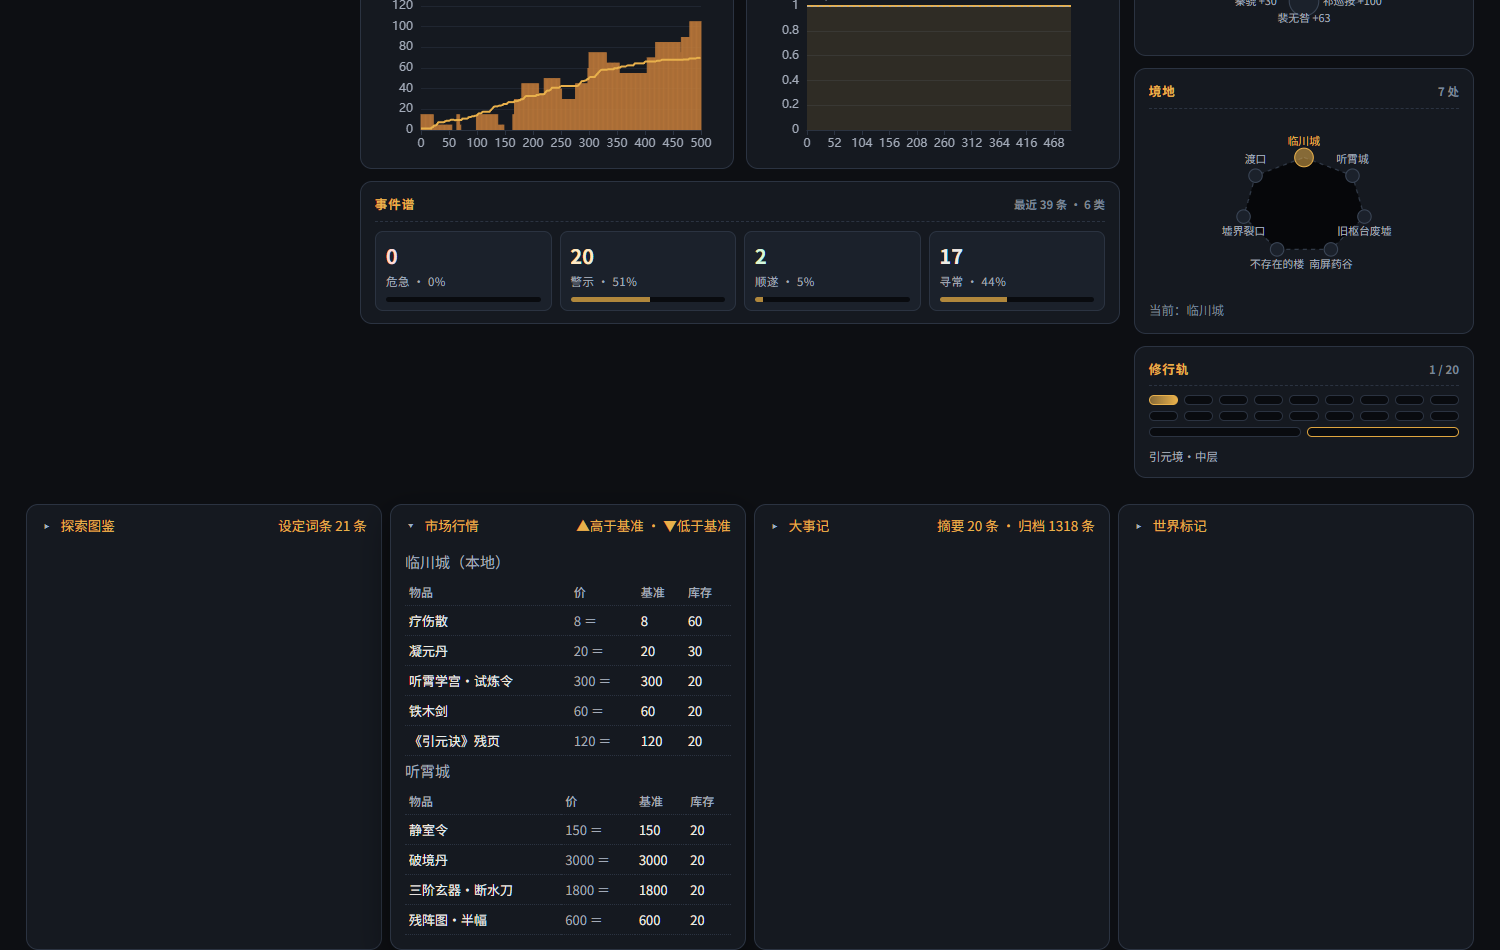
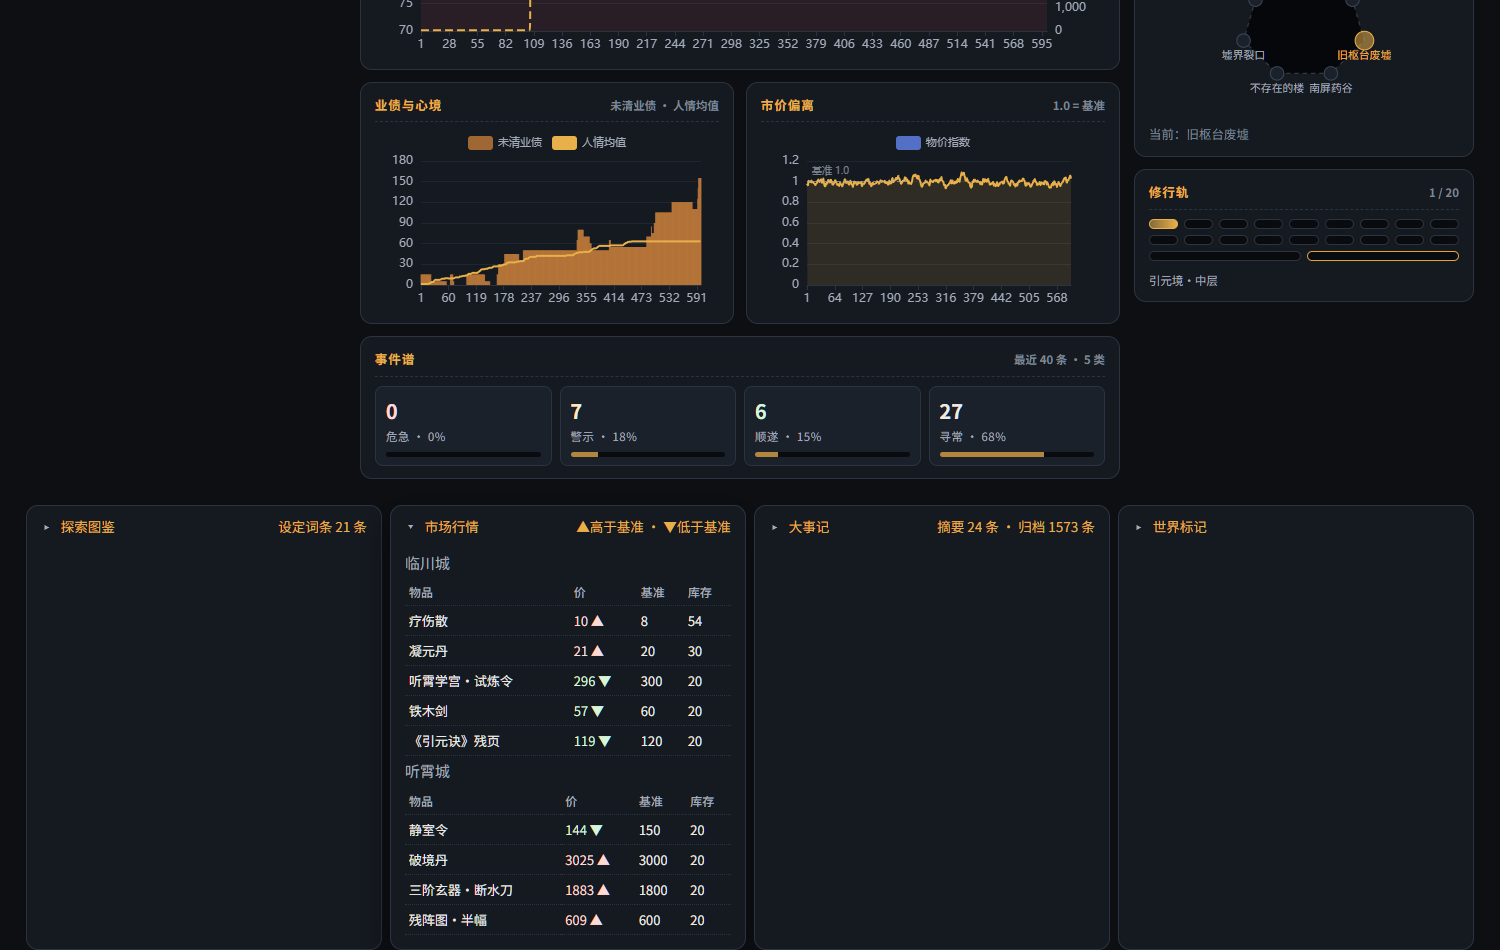
feat(viz): 可视化真修——三张图从"画了"到"看得懂"（T25）
上一轮我只验证了 canvas 有尺寸，没真正看图表画得对不对。本轮逐张实测后
发现三张图里两张等于废图。

## 已修的真问题

1. **物价指数图永远是一条 1.0 平线**
   `tick_market` 用确定性 OU（sigma=0），价格等于基准时永远不动。
   600 回合实测 price_index 只有 1 种取值。
   → 加入按 (rng_seed, tick, 地点, 商品) 派生的确定性扰动（4% 基准价），
     不消耗 rng_counter、不破坏回放。现 442 种取值（0.93–1.09）。
     可用 `configure(market_jitter=False)` 关掉（供需要精确预测的用例）。

2. **气血/内力曲线几乎不可见**
   玩家靠突破回满血，600 回合里 599 回合是 100%。
   → 图例按实际数据标注：跨度<5 显示"几乎恒定"，≥90% 点同值显示
     "气血%（100% 回合为 100%）"。让"没变化"成为可读信息，而不是让人
     对着平线猜是不是渲染坏了。

3. **纵轴固定 0–100 压扁小波动**
   → 按实际范围自适应（跨度>60 时仍回 0–100，避免夸大）。

4. **图鉴累计从未上图**
   它已经在采样里（codex_total，8→19 有真实增长），但图表没用。
   → 作为第 4 条系列（右轴虚线）加入，长局"走了多远"一眼可见。

5. **面板端口可被抢占（真 bug）**
   Python 的 `HTTPServer.allow_reuse_address` 默认 1（SO_REUSEADDR），
   Windows 上允许两个进程绑同一端口。实测被一个无关的
   `python -m http.server 8791` 抢走，面板返回 404 而自己毫无察觉。
   → `allow_reuse_address = False`，端口冲突正常抛错并顺延。
   （此前 verify_mcp_stdio 因此间歇性失败）

6. **击杀不给战利品（真 bug）**
   打怪没有任何经济回报，只能坐吃山空：实测 600 回合后 gold=0、
   买不起药、长期残血。
   → 击败目标接管其随身钱财（`loot_gold` + 事件记录）。

## 明确不做的
压力测试玩家的战斗平衡（打不过强敌 / 回避战斗导致曲线平）属于游戏数值
设计，不在本轮"把可视化做对"的范围内，已回退相关实验改动。

## 验证
- 三张图逐张截图目视 + ECharts 实例断言（系列数/点数/像素非空）
- 图表数据实测：price_index 442 种取值、gold 30→6040、codex 8→19
- 门禁 17 项全绿；verify_* 七套全过；pyflakes 0
- README 截图全部用本轮真实引擎数据重新生成

diff --git a/panel.js b/panel.js
@@ -543,22 +543,65 @@
         const hpPct = samples.map((s) => Math.round(s.hp * 100 / Math.max(1, s.hp_max)));
         const mpPct = samples.map((s) => Math.round(s.mp * 100 / Math.max(1, s.mp_max || 1)));
         const gold = samples.map((s) => s.gold);
+        // 图鉴累计（地点/人物/物品/词条）：长局里唯一"只增不减"的成长指标，
+        // 气血常因突破回满而看不出变化，用它才能看出"这局到底走了多远"。
+        const codex = samples.map((s) => s.codex_total || 0);
+        const codexGrows = codex.length && (codex[codex.length - 1] - codex[0]) > 0;
+        // 自适应纵轴：长局里气血常年在 76–100% 之间，固定 0–100 会把它压成一条
+        // 贴着顶边的直线，玩家看不出任何起伏。这里按实际范围外扩一点，
+        // 但如果跨度本身就很大（>60），仍回到 0–100 以免夸大小波动。
+        const spanOf = (arr) => {
+          const lo = Math.min.apply(null, arr), hi = Math.max.apply(null, arr);
+          return { lo, hi, span: hi - lo };
+        };
+        const hpSpan = spanOf(hpPct), mpSpan = spanOf(mpPct);
+        // 全程无波动的序列在图上就是一条贴边的直线，读者会以为是渲染故障。
+        // 在系列名里标注"恒定 N%"，让"没变化"本身成为可读信息。
+        // "看起来是平线"的两种情形：跨度极小（<5 点），或绝大多数点挤在同一值
+        // （长局里玩家靠突破回满，600 回合里可能只有 1 次受伤）。
+        const dominantShare = (arr) => {
+          const c = {}; arr.forEach(v => { c[v] = (c[v] || 0) + 1; });
+          const top = Object.keys(c).reduce((a, b) => (c[a] >= c[b] ? a : b));
+          return c[top] / Math.max(1, arr.length);
+        };
+        const flatLabel = (name, sp, arr, unit) => {
+          if (sp.span === 0) return name + "（恒定 " + sp.hi + unit + "）";
+          if (sp.span < 5) return name + "（几乎恒定 " + sp.hi + unit + "）";
+          const share = dominantShare(arr);
+          if (share >= 0.9) {
+            return name + "（" + Math.round(share * 100) + "% 回合为 " + sp.hi + unit + "）";
+          }
+          return name;
+        };
+        const pctAxis = () => {
+          const lo = Math.min(hpSpan.lo, mpSpan.lo);
+          const hi = Math.max(hpSpan.hi, mpSpan.hi);
+          if (hi - lo > 60) return { min: 0, max: 100 };
+          const pad = Math.max(4, Math.round((hi - lo) * 0.25));
+          return { min: Math.max(0, lo - pad), max: Math.min(100, hi + pad) };
+        };
         const opt = Object.assign(chartBase(pal, 58), {
           xAxis: Object.assign(chartBase(pal).xAxis, { data: ticks }),
           yAxis: [
-            Object.assign(chartBase(pal).yAxis, { name: "%", max: 100, nameTextStyle: { color: pal.text } }),
+            Object.assign(chartBase(pal).yAxis, Object.assign(
+              { name: "%", nameTextStyle: { color: pal.text } }, pctAxis())),
             { type: "value", splitLine: { show: false }, axisLabel: { color: pal.text },
               name: "钱财", nameTextStyle: { color: pal.text, fontSize: 10 } },
-          ],
+          ].concat(codexGrows ? [
+            { type: "value", splitLine: { show: false }, show: false, name: "图鉴" },
+          ] : []),
           series: [
-            { name: "气血%", type: "line", smooth: true, showSymbol: false, data: hpPct,
+            { name: flatLabel("气血%", hpSpan, hpPct, "%"), type: "line", smooth: true, showSymbol: false, data: hpPct,
               lineStyle: { color: pal.hp, width: 2 }, itemStyle: { color: pal.hp },
               areaStyle: { color: pal.hp, opacity: .10 } },
-            { name: "内力%", type: "line", smooth: true, showSymbol: false, data: mpPct,
+            { name: flatLabel("内力%", mpSpan, mpPct, "%"), type: "line", smooth: true, showSymbol: false, data: mpPct,
               lineStyle: { color: pal.mp, width: 2 }, itemStyle: { color: pal.mp } },
             { name: "钱财", type: "line", smooth: true, showSymbol: false, yAxisIndex: 1, data: gold,
               lineStyle: { color: pal.line, width: 2, type: "dashed" }, itemStyle: { color: pal.line } },
-          ],
+          ].concat(codexGrows ? [
+            { name: "图鉴累计", type: "line", smooth: true, showSymbol: false, yAxisIndex: 2, data: codex,
+              lineStyle: { color: pal.bar, width: 1.8, type: "dotted" }, itemStyle: { color: pal.bar } },
+          ] : []),
         });
         c1.setOption(opt, { notMerge: true });
       }

diff --git a/rules/economy.py b/rules/economy.py
@@ -9,7 +9,6 @@
 """
 
 
-from game_engine.rules.models import ou_price_reverted
 
 DEFAULT_BASE_PRICES = {
     "回灵丹": 50,
@@ -161,10 +160,33 @@ def resolve_trade(state, location_id, item, quantity, is_buyer, entity_id):
     return result
 
 def tick_market(state):
-    """每回合结束时价格缓慢回归 base_price"""
+    """每回合：价格向 base_price 均值回归 + 小幅市场扰动，供给缓慢恢复。
+
+    为什么要有扰动：纯确定性 OU（sigma=0）在价格等于基准时**永远不动**，
+    于是"物价指数"图表永远是一条 1.0 的平线——玩家看不到任何市场动态，
+    面板三张图里有一张等于废图。
+
+    扰动必须仍是**确定性**的（本项目核心不变量：同种子同结果）：
+    用 state 里的 rng_seed/tick/商品键 派生一个 [-1,1] 的伪随机量，
+    不调用 random 模块，因此不会消耗 rng_counter，也不破坏回放一致性。
+    """
+    import hashlib as _hl
+
+    seed = state.get("rng_seed") or 0
+    tick = int(state.get("tick", 0) or 0)
     for loc_id, loc_market in state.get("market", {}).items():
         for item, data in loc_market.items():
-            data["price"] = ou_price_reverted(int(data.get("price", 0)), int(data.get("base_price", data.get("price", 0))))
+            base = int(data.get("base_price", data.get("price", 0)) or 0)
+            cur = int(data.get("price", 0) or 0)
+            # 派生 [-1, 1]：sha256(seed|tick|loc|item) 取前 8 字节归一
+            key = ("%s|%s|%s|%s" % (seed, tick, loc_id, item)).encode("utf-8")
+            h = int.from_bytes(_hl.sha256(key).digest()[:8], "big")
+            jitter = (h / float(1 << 64)) * 2.0 - 1.0
+            # 扰动幅度：基准价的 4%。config.market_jitter=False 时关闭，
+            # 供"价格必须严格等于 OU 闭式解"的预测类用例使用（见 upload_test）。
+            jitter_on = (state.get("config") or {}).get("market_jitter", True)
+            noise = (jitter * max(1.0, base * 0.04)) if jitter_on else 0.0
+            data["price"] = max(1, int(round(cur + (-0.15 * (cur - base)) + noise)))
             # 供给缓慢恢复
             if data["supply"] < 20:
                 data["supply"] += 1

diff --git a/mcp_server.py b/mcp_server.py
@@ -1117,7 +1117,8 @@ def recap(recent: int = 12, budget_chars: int = 0) -> dict:
 @server.tool()
 def configure(event_log_keep: int | None = None, recap_budget_chars: int | None = None,
               summary_keep: int | None = None, milestone_keep: int | None = None,
-              panel_port: int | None = None, currency: str | None = None) -> dict:
+              panel_port: int | None = None, currency: str | None = None,
+              market_jitter: bool | None = None) -> dict:
     """查看/修改对局配置（Chinese: 留空的项不改；返回当前全量配置。长局的存档/归档行为都在这里调）。
     View or update per-game config."""
     state = _load()
@@ -1129,6 +1130,10 @@ def configure(event_log_keep: int | None = None, recap_budget_chars: int | None 
             cfg[key] = int(val)
     if currency:
         state["currency"] = str(currency)
+    if market_jitter is not None:
+        # 每回合的市场扰动开关。关掉后价格严格按 OU 闭式解演化（可精确预测），
+        # 适合需要逐点复算的场景；默认开，否则物价指数图永远是 1.0 平线。
+        cfg["market_jitter"] = bool(market_jitter)
     return _finish(state, cfg)
 
 

diff --git a/scripts/verify_branches.py b/scripts/verify_branches.py
@@ -421,7 +421,9 @@ def economy():
         check_true('trade 数量=%d 被拒' % q, r.get('success') is False)
 
     # tick_market：价格向基准回归、供给恢复
-    st = {'market': {'L': {'it': {'price': 40, 'base_price': 10, 'supply': 5}}}}
+    # 关掉市场扰动：本用例验证的是 OU 回归公式本身（扰动是产品特性，另有覆盖）
+    st = {'tick': 0, 'rng_seed': 0, 'config': {'market_jitter': False},
+          'market': {'L': {'it': {'price': 40, 'base_price': 10, 'supply': 5}}}}
     ECON.tick_market(st)
     it = st['market']['L']['it']
     check('tick_market 价格按 OU 回归', it['price'],
@@ -429,7 +431,8 @@ def economy():
     check('tick_market 供给 +1', it['supply'], 6)
 
     # 供给达到 20 后不再涨
-    st = {'market': {'L': {'it': {'price': 10, 'base_price': 10, 'supply': 20}}}}
+    st = {'tick': 0, 'rng_seed': 0, 'config': {'market_jitter': False},
+          'market': {'L': {'it': {'price': 10, 'base_price': 10, 'supply': 20}}}}
     ECON.tick_market(st)
     check('tick_market 供给封顶 20', st['market']['L']['it']['supply'], 20)
 

diff --git a/panel.py b/panel.py
@@ -526,13 +526,25 @@ class Handler(BaseHTTPRequestHandler):
             return
 
 
+class _PanelServer(ThreadingHTTPServer):
+    """面板 HTTP 服务。
+
+    allow_reuse_address 必须是 False：Python 的 HTTPServer 默认把它设为 1
+    （SO_REUSEADDR）。在 Windows 上这允许**两个进程同时绑定同一端口**，
+    结果是请求被别的进程抢走、面板返回 404 而自己毫无察觉
+    （实测被一个无关的 `python -m http.server 8791` 抢过）。
+    关掉它，端口冲突就会正常抛 OSError，从而走下面的顺延逻辑。
+    """
+    allow_reuse_address = False
+
+
 def start(state_path, port=8765, host="127.0.0.1"):
     """启动面板服务（后台线程），返回 (server, 实际端口)。端口被占则自动顺延。"""
     Handler.state_path = os.path.abspath(state_path)
     srv = None
     for p in range(int(port), int(port) + 10):
         try:
-            srv = ThreadingHTTPServer((host, p), Handler)
+            srv = _PanelServer((host, p), Handler)
             break
         except OSError:
             continue

diff --git a/rules/combat.py b/rules/combat.py
@@ -137,6 +137,14 @@ def resolve_combat(state, attacker_id, defender_id, action="attack", skill=None)
     
     # 检查击杀
     if def_ent["hp"] <= 0:
+        # 战利品：击败目标后接管其随身钱财。没有这条，玩家打怪毫无经济回报，
+        # 只能坐吃山空（实测 600 回合后 gold=0、买不起药、长期残血）。
+        loot = int(def_ent.get("gold", 0) or 0)
+        if defender_id != "player" and loot > 0:
+            atk_ent["gold"] = int(atk_ent.get("gold", 0) or 0) + loot
+            def_ent["gold"] = 0
+            result["loot_gold"] = loot
+            result["events"].append(f"{atk_ent.get('name', attacker_id)}从{def_ent.get('name', defender_id)}身上取得{loot}钱财")
         if defender_id == "player":
             # 玩家永不真正死亡：气血保底 1，代价是濒死（掉钱 / 心伤 / 留痕）
             _apply_near_death(state, def_ent, result)

diff --git a/scripts/user_playtest.py b/scripts/user_playtest.py
@@ -188,6 +188,9 @@ async def main():
             for ci, p_init in enumerate(cases):
                 st_c = _json.loads(_json.dumps(st0))
                 st_c['market']['临江城']['chun_cha']['price'] = p_init
+                # 关闭市场扰动：本组验证的是 OU 回归公式能否逐点复算，
+                # 叠加随机扰动就无法用手算值比对（扰动是产品特性，用配置关掉）。
+                st_c.setdefault('config', {})['market_jitter'] = False
                 tmp_c = '%s.ou%d.json' % (state_path, ci)
                 with open(tmp_c, 'w', encoding='utf-8') as f:
                     _json.dump(st_c, f, ensure_ascii=False)

diff --git a/scripts/verify_mutation.py b/scripts/verify_mutation.py
@@ -24,7 +24,6 @@ import os
 import shutil
 import subprocess
 import sys
-import tempfile
 
 ROOT = os.path.dirname(os.path.dirname(os.path.abspath(__file__)))
 

diff --git a/scripts/verify_memory.py b/scripts/verify_memory.py
@@ -16,7 +16,6 @@
 退出码: 0 = 内存稳定；1 = 疑似泄漏；2 = 缺 psutil
 """
 
-import json
 import os
 import sys
 
